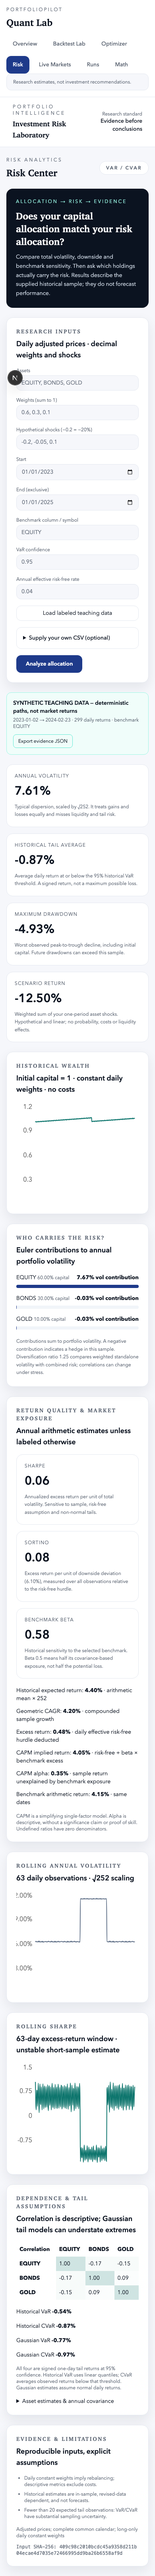
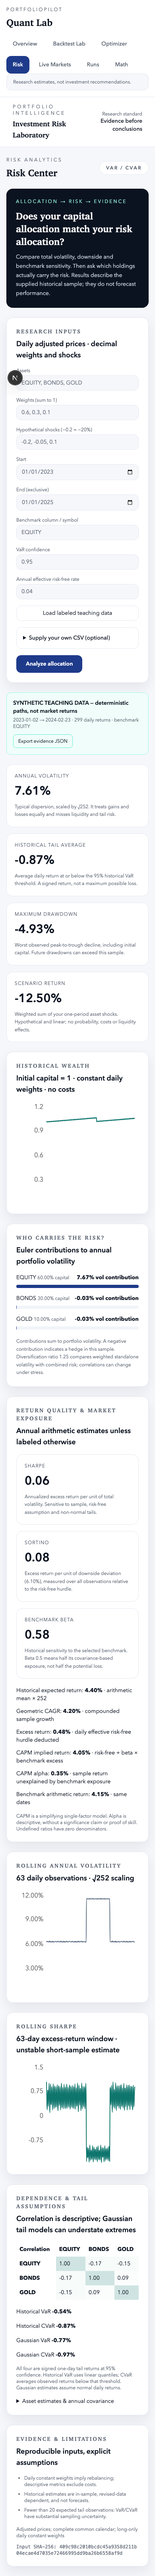
release: record independent review and harden reproducible local deployment

diff --git a/scripts/check-secrets.py b/scripts/check-secrets.py
@@ -1,0 +1,13 @@
+import re, subprocess, json
+from pathlib import Path
+patterns = [r'-----BEGIN (?:RSA |EC |OPENSSH )?PRIVATE KEY-----',r'\bgh[pousr]_[A-Za-z0-9]{30,}\b',r'\bgithub_pat_[A-Za-z0-9_]{30,}\b',r'\bAKIA[A-Z0-9]{16}\b',r'\bsk-(?:proj-)?[A-Za-z0-9_-]{32,}\b',r'\bxox[baprs]-[A-Za-z0-9-]{20,}\b']
+files = subprocess.check_output(['git','ls-files','-z']).decode().split('\0')
+findings=[]
+for name in filter(None,files):
+ p=Path(name)
+ if not p.is_file(): continue
+ try:s=p.read_text()
+ except UnicodeError:continue
+ if any(re.search(pattern,s) for pattern in patterns):findings.append(name)
+print(json.dumps({'scope':'tracked files; high-confidence credential/private-key patterns','files':len(files)-1,'findings':findings}))
+raise SystemExit(bool(findings))

diff --git a/docs/MATH.md b/docs/MATH.md
@@ -73,7 +73,7 @@ With risk-free rate \(r_f\), the tangency portfolio is:
 \[
 \boxed{w^{\star} \propto \Sigma^{-1} (\mu - r_f \mathbf{1})}
 \]
-Normalize so \(\mathbf{1}^T w = 1\).
+Normalize so \(\mathbf{1}^T w = 1\), only when the normalization denominator is positive; otherwise this implementation rejects the unsupported tangency direction.
 
 ### Long-only (constrained)
 For long-only and weight caps, PortfolioPilot solves convex QPs:
@@ -91,7 +91,7 @@ Risk contributions use:
 \text{RC}_i = w_i (\Sigma w)_i / \sigma_p
 \]
 
-Equal risk contribution solves for \(\text{RC}_i = \sigma_p / n\) using iterative updates.
+Equal risk contribution solves for \(\text{RC}_i = \sigma_p / n\) using a convex log-budgeting objective with a verified contribution residual.
 
 ## 3. Value at Risk (VaR) and CVaR
 
@@ -121,13 +121,25 @@ Subject to:
  u_t \ge -r_t^T w - z, \quad u_t \ge 0, \quad \mathbf{1}^T w = 1, \quad w \ge 0
 \]
 
-## 4. Volatility Targeting (EWMA)
-EWMA volatility:
-\[
-\sigma_t^2 = \lambda \sigma_{t-1}^2 + (1-\lambda) r_t^2
-\]
+## 4. Volatility targeting with lagged holdings
 
-Scale returns by:
-\[
-\text{scale}_t = \frac{\sigma_{\text{target}}}{\sigma_t}
-\]
+At a rebalance close, estimate annualized sample volatility of the base allocation using only
+returns observed through that date. Scale the next interval's asset weights by
+`min(1, target_volatility / estimated_volatility)`. Zero estimated volatility implies zero
+risky exposure. The remaining wealth is zero-yield cash. There is no leverage and no same-period
+rescaling of realized returns. Trading costs are computed after the target weights change.
+
+## 5. Risk workbench conventions
+
+Portfolio volatility is `sqrt(wᵀΣw)` using sample covariance × 252. Downside deviation is
+`sqrt(252 × mean(min(portfolio_return − daily_rf, 0)²))`, using all observations. Sharpe and
+Sortino divide annualized arithmetic excess return by total and downside volatility respectively.
+Undefined risk-workbench ratios are null. Daily risk-free rate is `(1 + annual_effective_rf)^(1/252)−1`.
+
+Drawdown includes initial capital before the first return. Risk snapshots assume daily constant
+weights without costs. Their VaR/CVaR outputs are signed one-day returns, not annualized positive
+losses. Benchmark CAPM and Euler risk attribution describe the historical sample rather than
+predicting returns or proving investment skill.
+
+The complete [methodology](https://github.com/CSingh26/PortfolioPilot/blob/main/docs/METHODOLOGY.md)
+documents all estimators, units, data restrictions, cost conventions and limitations.

diff --git a/docs/API.md b/docs/API.md
@@ -49,3 +49,21 @@ Base URL: `http://localhost:8000`
 
 ## Shared Schemas
 See `packages/shared/src/index.ts` for Zod schemas used by the web and API.
+
+## Supplied-price risk request (no provider credentials)
+
+```bash
+curl http://localhost:8000/v1/risk/metrics \
+  -H 'Content-Type: application/json' \
+  -d '{"tickers":["A","B"],"start":"2024-01-01","end":"2024-01-09","benchmark":"A","weights":{"A":0.5,"B":0.5},"risk_free":0,"alpha":0.8,"shocks":{"A":-0.2,"B":0.1},"history":{"dates":["2024-01-01","2024-01-02","2024-01-03","2024-01-04","2024-01-05","2024-01-08"],"prices":{"A":[100,110,99,99,108.9,98.01],"B":[100,100,100,100,100,100]},"source":"Hand-calculation teaching fixture; not market data"}}'
+```
+
+This deliberately tiny teaching panel gives beta .5, 79.3725% annualized volatility and a −5%
+linear stress return. Its large annualized volatility and sparse tail sample are educational,
+not market estimates. The response carries explicit short-sample warnings.
+
+The rich response includes annual return/risk estimates, signed one-day tail returns,
+correlation/covariance, benchmark CAPM, risk contributions, rolling curves and provenance.
+Invalid input or incomplete prices return 422. Source metadata is user/provider provenance,
+not independent verification. Risk export identifies the price panel by hash; retain the
+request/CSV to reproduce it. The date range is start-inclusive and end-exclusive.

diff --git a/docs/INDEPENDENT_REVIEW.md b/docs/INDEPENDENT_REVIEW.md
@@ -1,0 +1,16 @@
+# Independent review closeout
+
+Reviewer: separate ChronosResearch project lead (read-only PortfolioPilot review), coordinated
+by the portfolio orchestrator. Reviewed original core commit 69095fa and closed findings on
+bc0a1bcb3de6840ae3a5e78a21d6353f8604c03f on 2026-09-08.
+
+| Finding | Resolution | Evidence |
+|---|---|---|
+| Negative unconstrained tangency normalization reverses direction | Reject unsupported nonpositive normalization | `test_unconstrained_tangency_rejects_negative_normalization` |
+| Backtest entry row counted as elapsed day | CAGR uses terminal wealth over N−1 intervals; vol/Sharpe exclude entry row | `test_route_annualizes_elapsed_intervals_including_initial_cost` |
+| Old results could remain beneath changed inputs | Every form change invalidates output; full fieldset disabled while calculating | Reviewer source inspection and actual browser interaction regression |
+
+The reviewer reran the 12 backtest guardrail tests and confirmed all three findings closed.
+The bounded review also checked risk nonfinite-input handling and adjusted-price/cache paths;
+no additional material core security issue was identified. This is not an exhaustive penetration
+test, investment-model certification, or a claim that every possible financial risk is covered.
